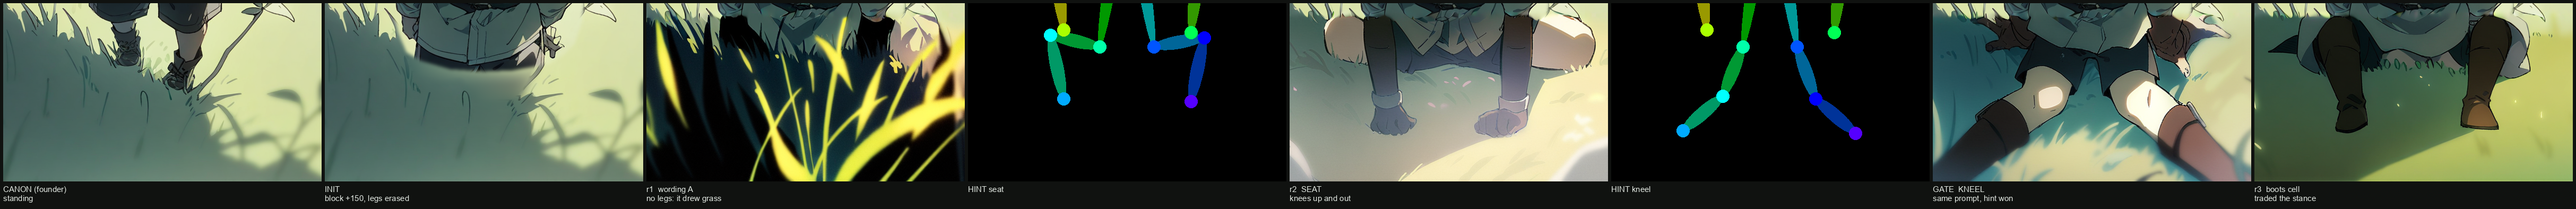
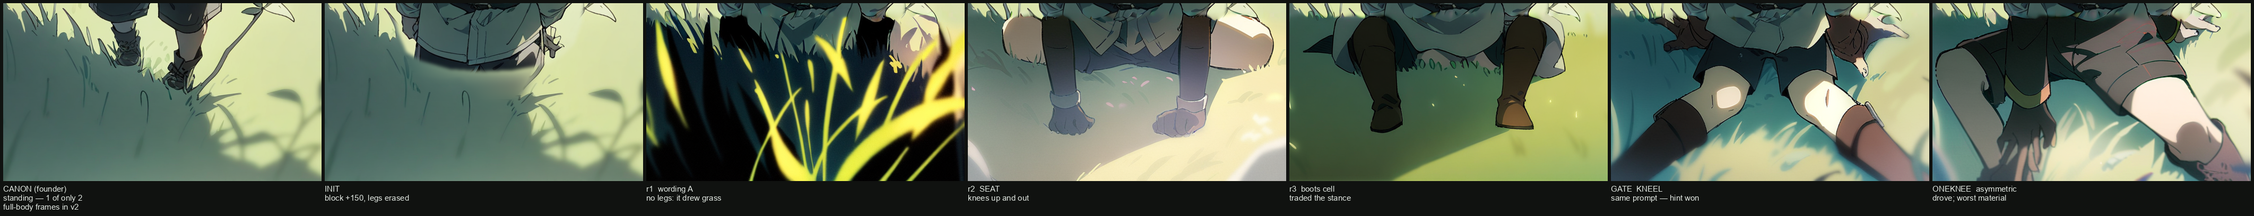
asymmetry drove and the paint did not follow: the hint reaches the pose, not the material
The third posed frame is the first asymmetric one in a set where both existing
stances and all twenty-one v2 frames are mirror-symmetric, and the asymmetry
arrived: mirror-asymmetry over the limb band reads 81.4 against the kneel's 71.4
and the seat's 60.0. The pre-registered worry was that the net would symmetrise
him anyway. It did not.

What it did instead is a fourth outcome nobody registered. The frame is the
worst of the five: his right thigh lands eighty RGB units from the canon's sage
as a pink slab, where the kneel's reads seven. Forcing two legs apart against a
strongly bilateral prior bought the geometry and cost the paint.

That matters for the set rather than for the route. Seat and kneel carry their
defects below y 1070, where a crop deletes every bad pixel and keeps the fold.
The pink thigh is at mid-limb, inside the fold the frame exists to teach, and no
crop reaches it -- so oneknee is a reseed candidate and the set stands at two
usable posed frames against the two canon standing ones.

Identity held for the fifth frame running, mean absolute delta 1.166, and the
end-to-end claim is now asserted rather than argued: the face core of every
restored frame is byte-identical to the founder's canon image itself, not merely
to the init derived from it.

diff --git a/pipeline/goblin-lowerbody-route-0822.md b/pipeline/goblin-lowerbody-route-0822.md
@@ -1,6 +1,6 @@
 # The masked lower-body pass — how the goblin finally sat down
 
-**2026-08-22, the v3 lane.** Four samples, about a hundred seconds of card,
+**2026-08-22, the v3 lane.** Five samples, about two minutes of card,
 `$0`. Written because the pose problem is solved and the next lane should
 inherit the mechanism rather than the ladder.
 
@@ -20,7 +20,7 @@ inherit the mechanism rather than the ladder.
       pastes the init's own rows 0..883 back, byte for byte, asserted.
 
 Assets: `pipeline/author_jerry_lowerbody_0822.py` (`--write`).
-Jobs: `ep2-b13-lowerbody-0822`, `-w2-`, `-w3-`, `-kneel-`.
+Jobs: `ep2-b13-lowerbody-0822`, `-w2-`, `-w3-`, `-kneel-`, `-oneknee-`.
 Evidence: `farm-out/ep2-goblin-lowerbody-0822/` (contact sheets + the two
 restored frames; the raw renders land under `farm-out/ep2-b13-lowerbody-*-0822/`
 by courier). NOT `review/` -- `.gitignore:60` is `review/**/*.png`, so evidence
@@ -54,7 +54,7 @@ this pass does not need it: the identity is the init's own pixels. It is also
 the one configuration in which the pose net has been observed to drive in this
 tree (four of four postures, twopass CORRECTION §3).
 
-## 3. What four rounds measured
+## 3. What five rounds measured
 
 | round | the one variable | result |
 |---|---|---|
@@ -62,8 +62,9 @@ tree (four of four postures, twopass CORRECTION §3).
 | r2 | the wording: `in tall grass` out, `seated, bare legs, dark shorts, dark boots` in | **SEATED.** Knees up and out past the authored hint, shins descending, feet planted. Seam invisible. One figure. Thighs pale on the lit side; feet are paws. |
 | r3 | the wording again, aimed at P3: `bare sage green legs`, `dark leather boots` | Real boots with soles and heels — and they run knee-high and hide the thighs, and the stance narrows. Not better than r2, differently wrong. |
 | **gate** | **the hint only** — seat → kneel, with the positive still saying `seated`, byte-identical | **THE HINT WON.** The legs go down and forward instead of up and out: limb mass at y 1180 is 245 px against r2's 0, and at y 1040 it spans x 0..746 against r2's 0..567. Against a contradicting noun. |
+| oneknee | the hint only — the third posed frame, and the first ASYMMETRIC one | **THE ASYMMETRY DROVE** and it is the highest in the set: mirror-asymmetry over the limb band 81.4, against the kneel's 71.4 and the seat's 60.0. **And it is the worst frame of the five**: the right thigh lands 80 RGB units from the canon's sage as a pink slab, where the kneel's reads 7. |
 
-Held across all four: init sha, mask sha, hint sha, net, scale 1.0,
+Held across all five: init sha, mask sha, hint sha, net, scale 1.0,
 `--pad-crop 0`, 40 steps, cfg 7.5, seed 20260823, no LoRA.
 
 ### The findings, ranked by how much they generalise
@@ -198,6 +199,14 @@ reframes three things at once:
   to attach.
 * **One variable against v2**, so a score is attributable: the added frames. Not
   the recipe, not the captions of the 21, not the repeat count.
+
+**The set has three posed frames and TWO of them are usable.** Seat and kneel
+carry the defect in a place a crop deletes (below); `oneknee` does not — the
+pink thigh is at mid-limb, inside the fold the frame exists to teach, and no
+crop reaches it. It is a RESEED candidate, not a shipping frame, and the reason
+is worth keeping: an anime checkpoint's prior for a small frontal figure is
+strongly bilateral, and forcing the two legs apart bought the geometry at the
+cost of the material. **The hint reached the pose and did not reach the paint.**
 
 ### And P3 does not have to be solved before the set is built
 
